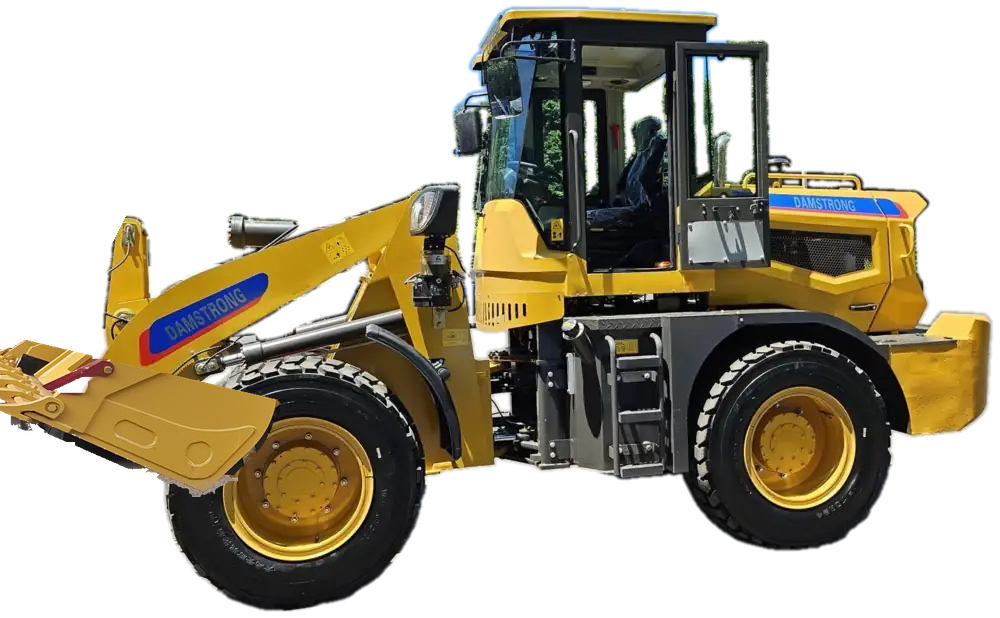
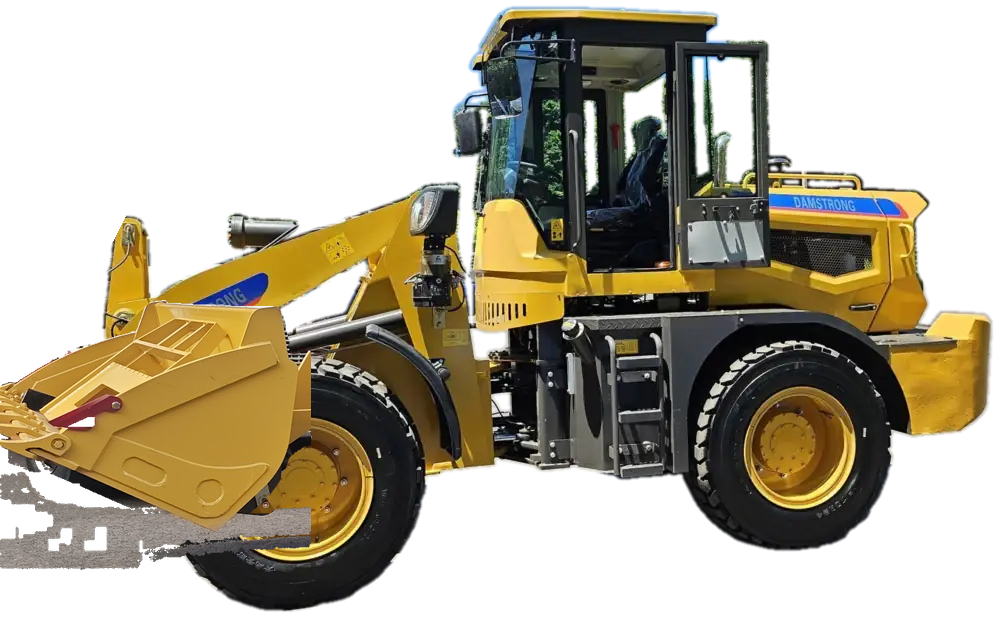
Keep the bucket's full triangular side plate.
The last cut stopped halfway down the side plate. This one runs from the top hinge to the cutting edge and the teeth, at about the height of the front wheel.

Changed region(s): [[0.0, 0.4612, 0.31, 0.9223]]

diff --git a/bernie/loader/loader.js b/bernie/loader/loader.js
@@ -3,15 +3,16 @@
 (function () {
   var BOARD = { w: 1000, h: 618 };
   /* The arms, wheels, cab, and engine are crops of the side photo.
-     The bucket is the open shovel cut from Evan's Damstrong photo,
-     seated on the front hinge. Together the six parts rebuild ghost.webp. */
+     The bucket is the full triangular scoop cut from Evan's Damstrong photo,
+     from the top hinge down to the teeth, seated on the front hinge.
+     Together the six parts rebuild ghost.webp. */
   var PARTS = [
     { id: "rear-wheel", name: "Rear wheel", src: "img/rear-wheel.webp", x: 671, y: 315, w: 252, h: 237, group: "body" },
     { id: "front-wheel", name: "Front wheel", src: "img/front-wheel.webp", x: 163, y: 354, w: 271, h: 259, group: "body" },
     { id: "engine", name: "Engine", src: "img/engine.webp", x: 154, y: 39, w: 840, h: 442, group: "body" },
     { id: "cab", name: "Cab", src: "img/cab.webp", x: 451, y: 5, w: 310, h: 251, group: "body" },
     { id: "arms", name: "Lift arms", src: "img/arms.webp", x: 72, y: 170, w: 474, h: 279, group: "arms" },
-    { id: "bucket", name: "Bucket", src: "img/bucket.webp", x: 0, y: 340, w: 280, h: 157, group: "bucket" }
+    { id: "bucket", name: "Bucket", src: "img/bucket.webp", x: 0, y: 300, w: 311, h: 270, group: "bucket" }
   ];
   /* Boom pin on the chassis. The bucket sits left and below it, so a positive
      turn lifts the arms and the bucket. */
